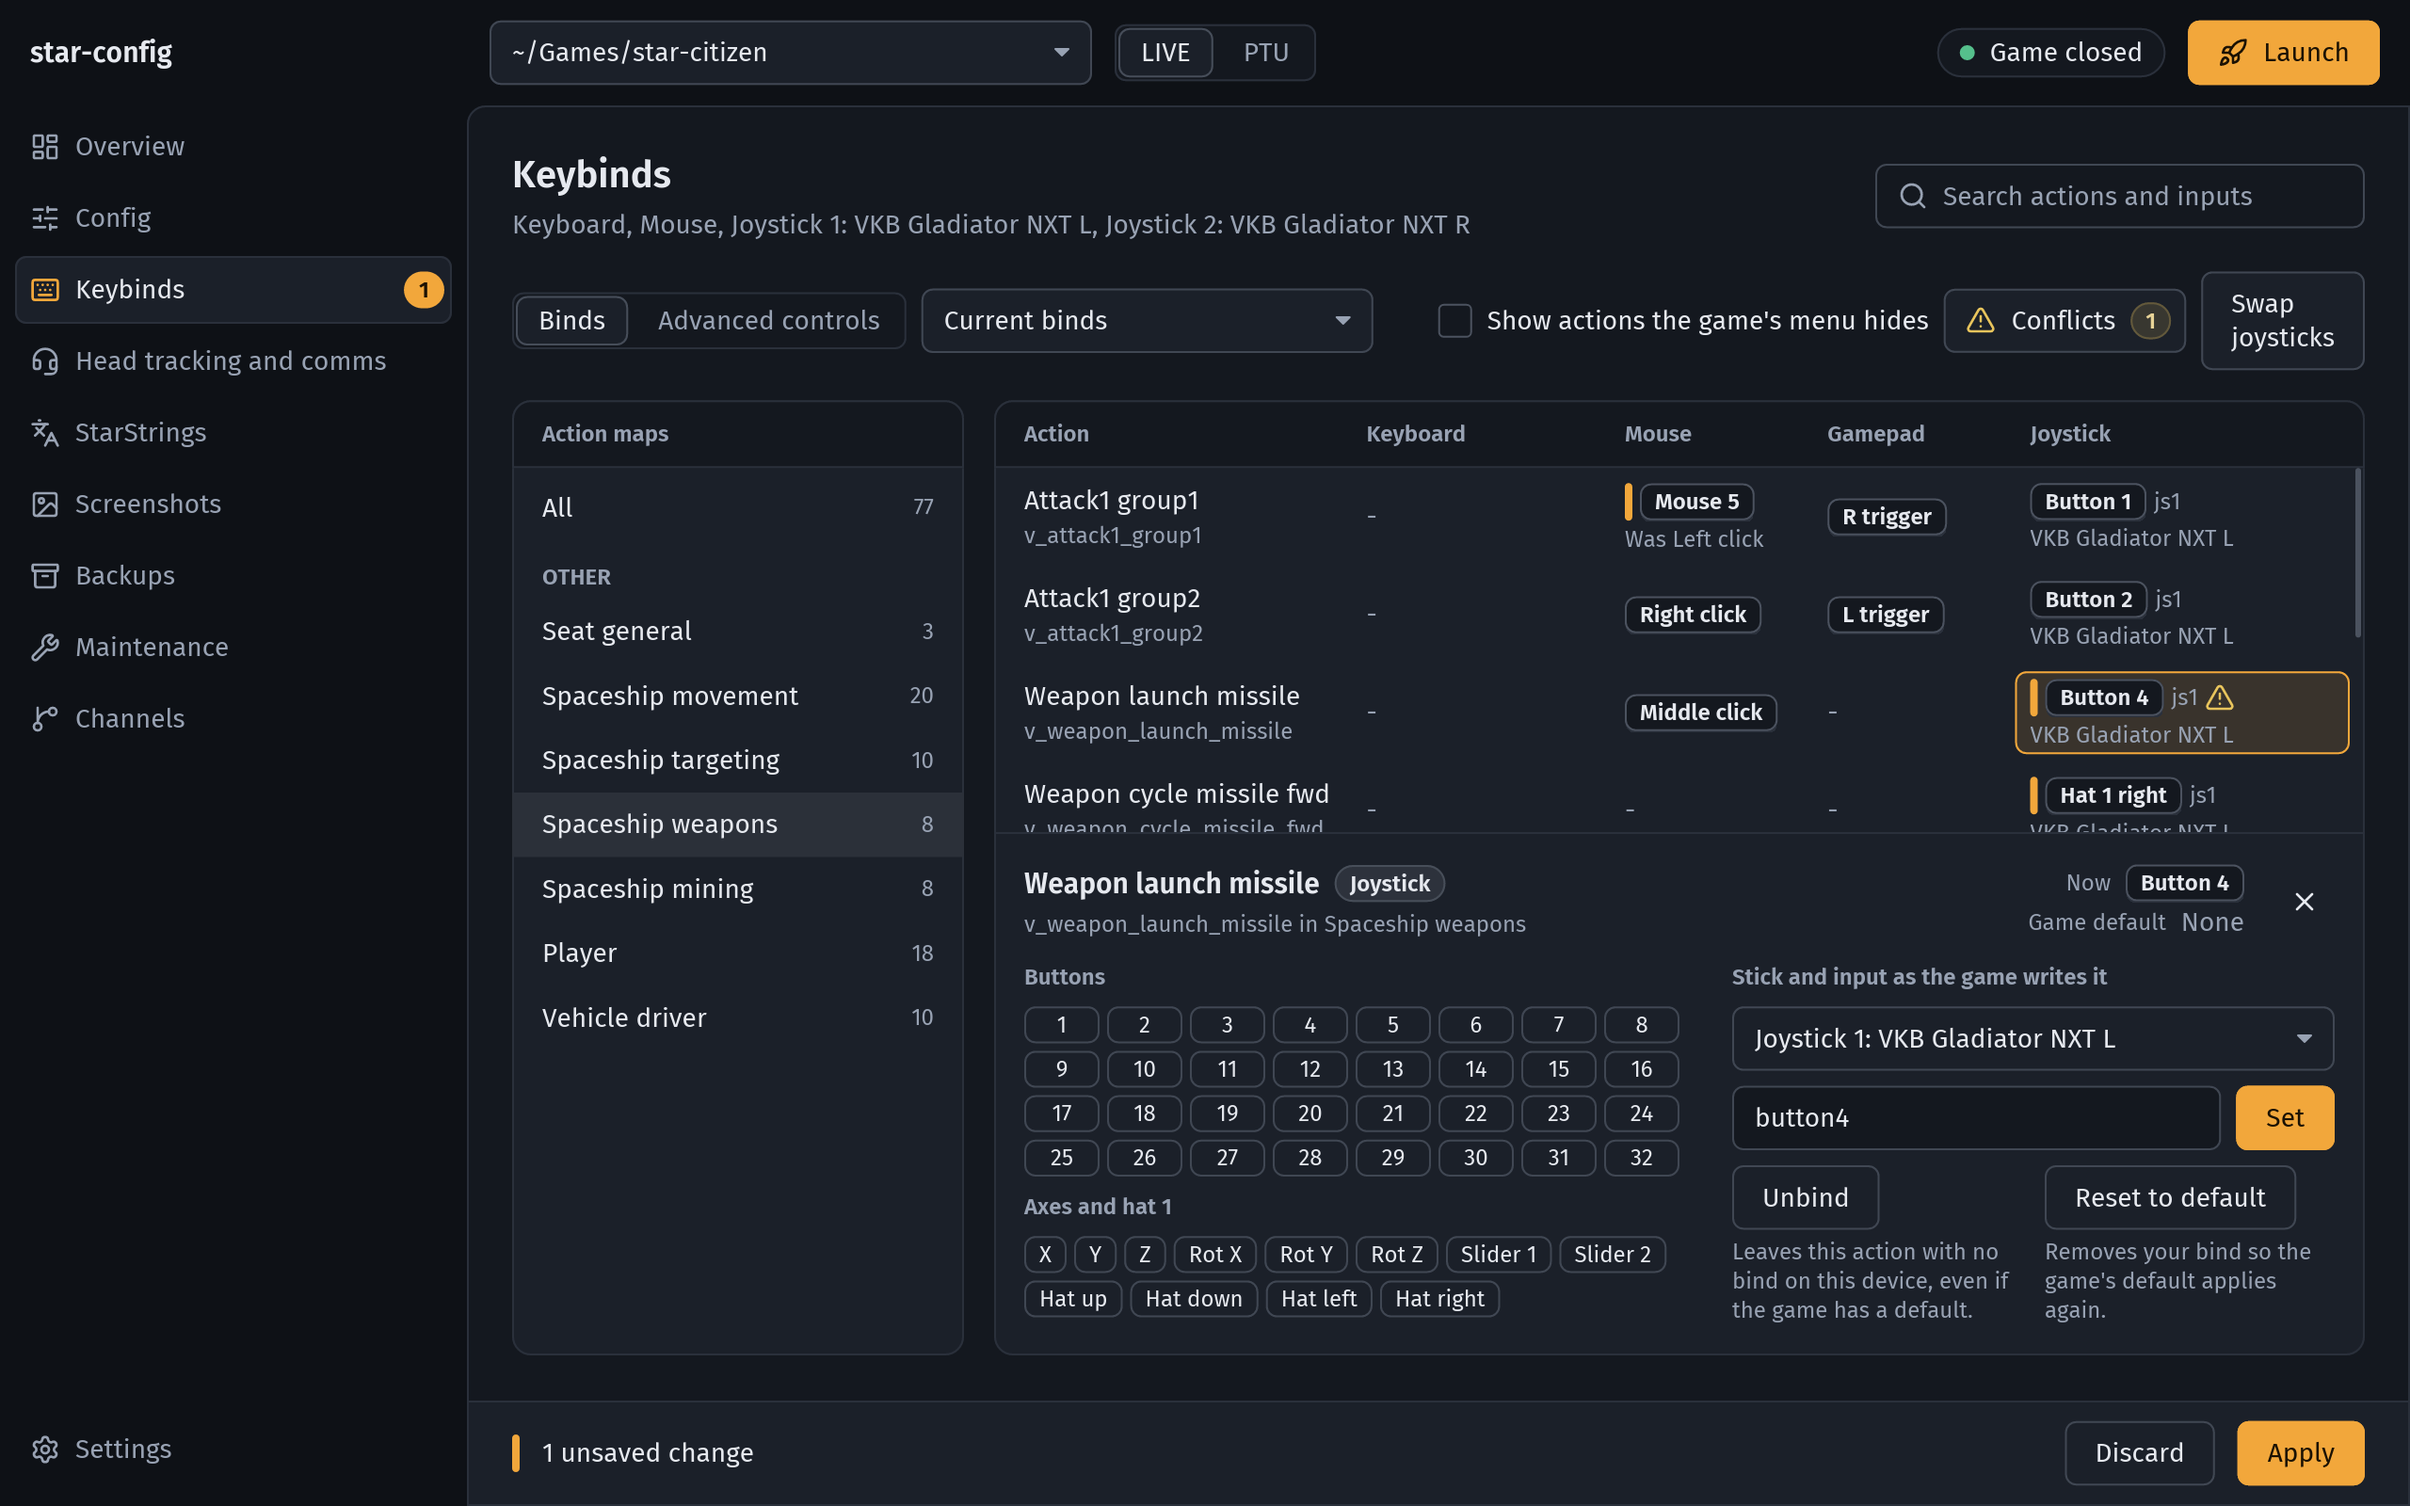
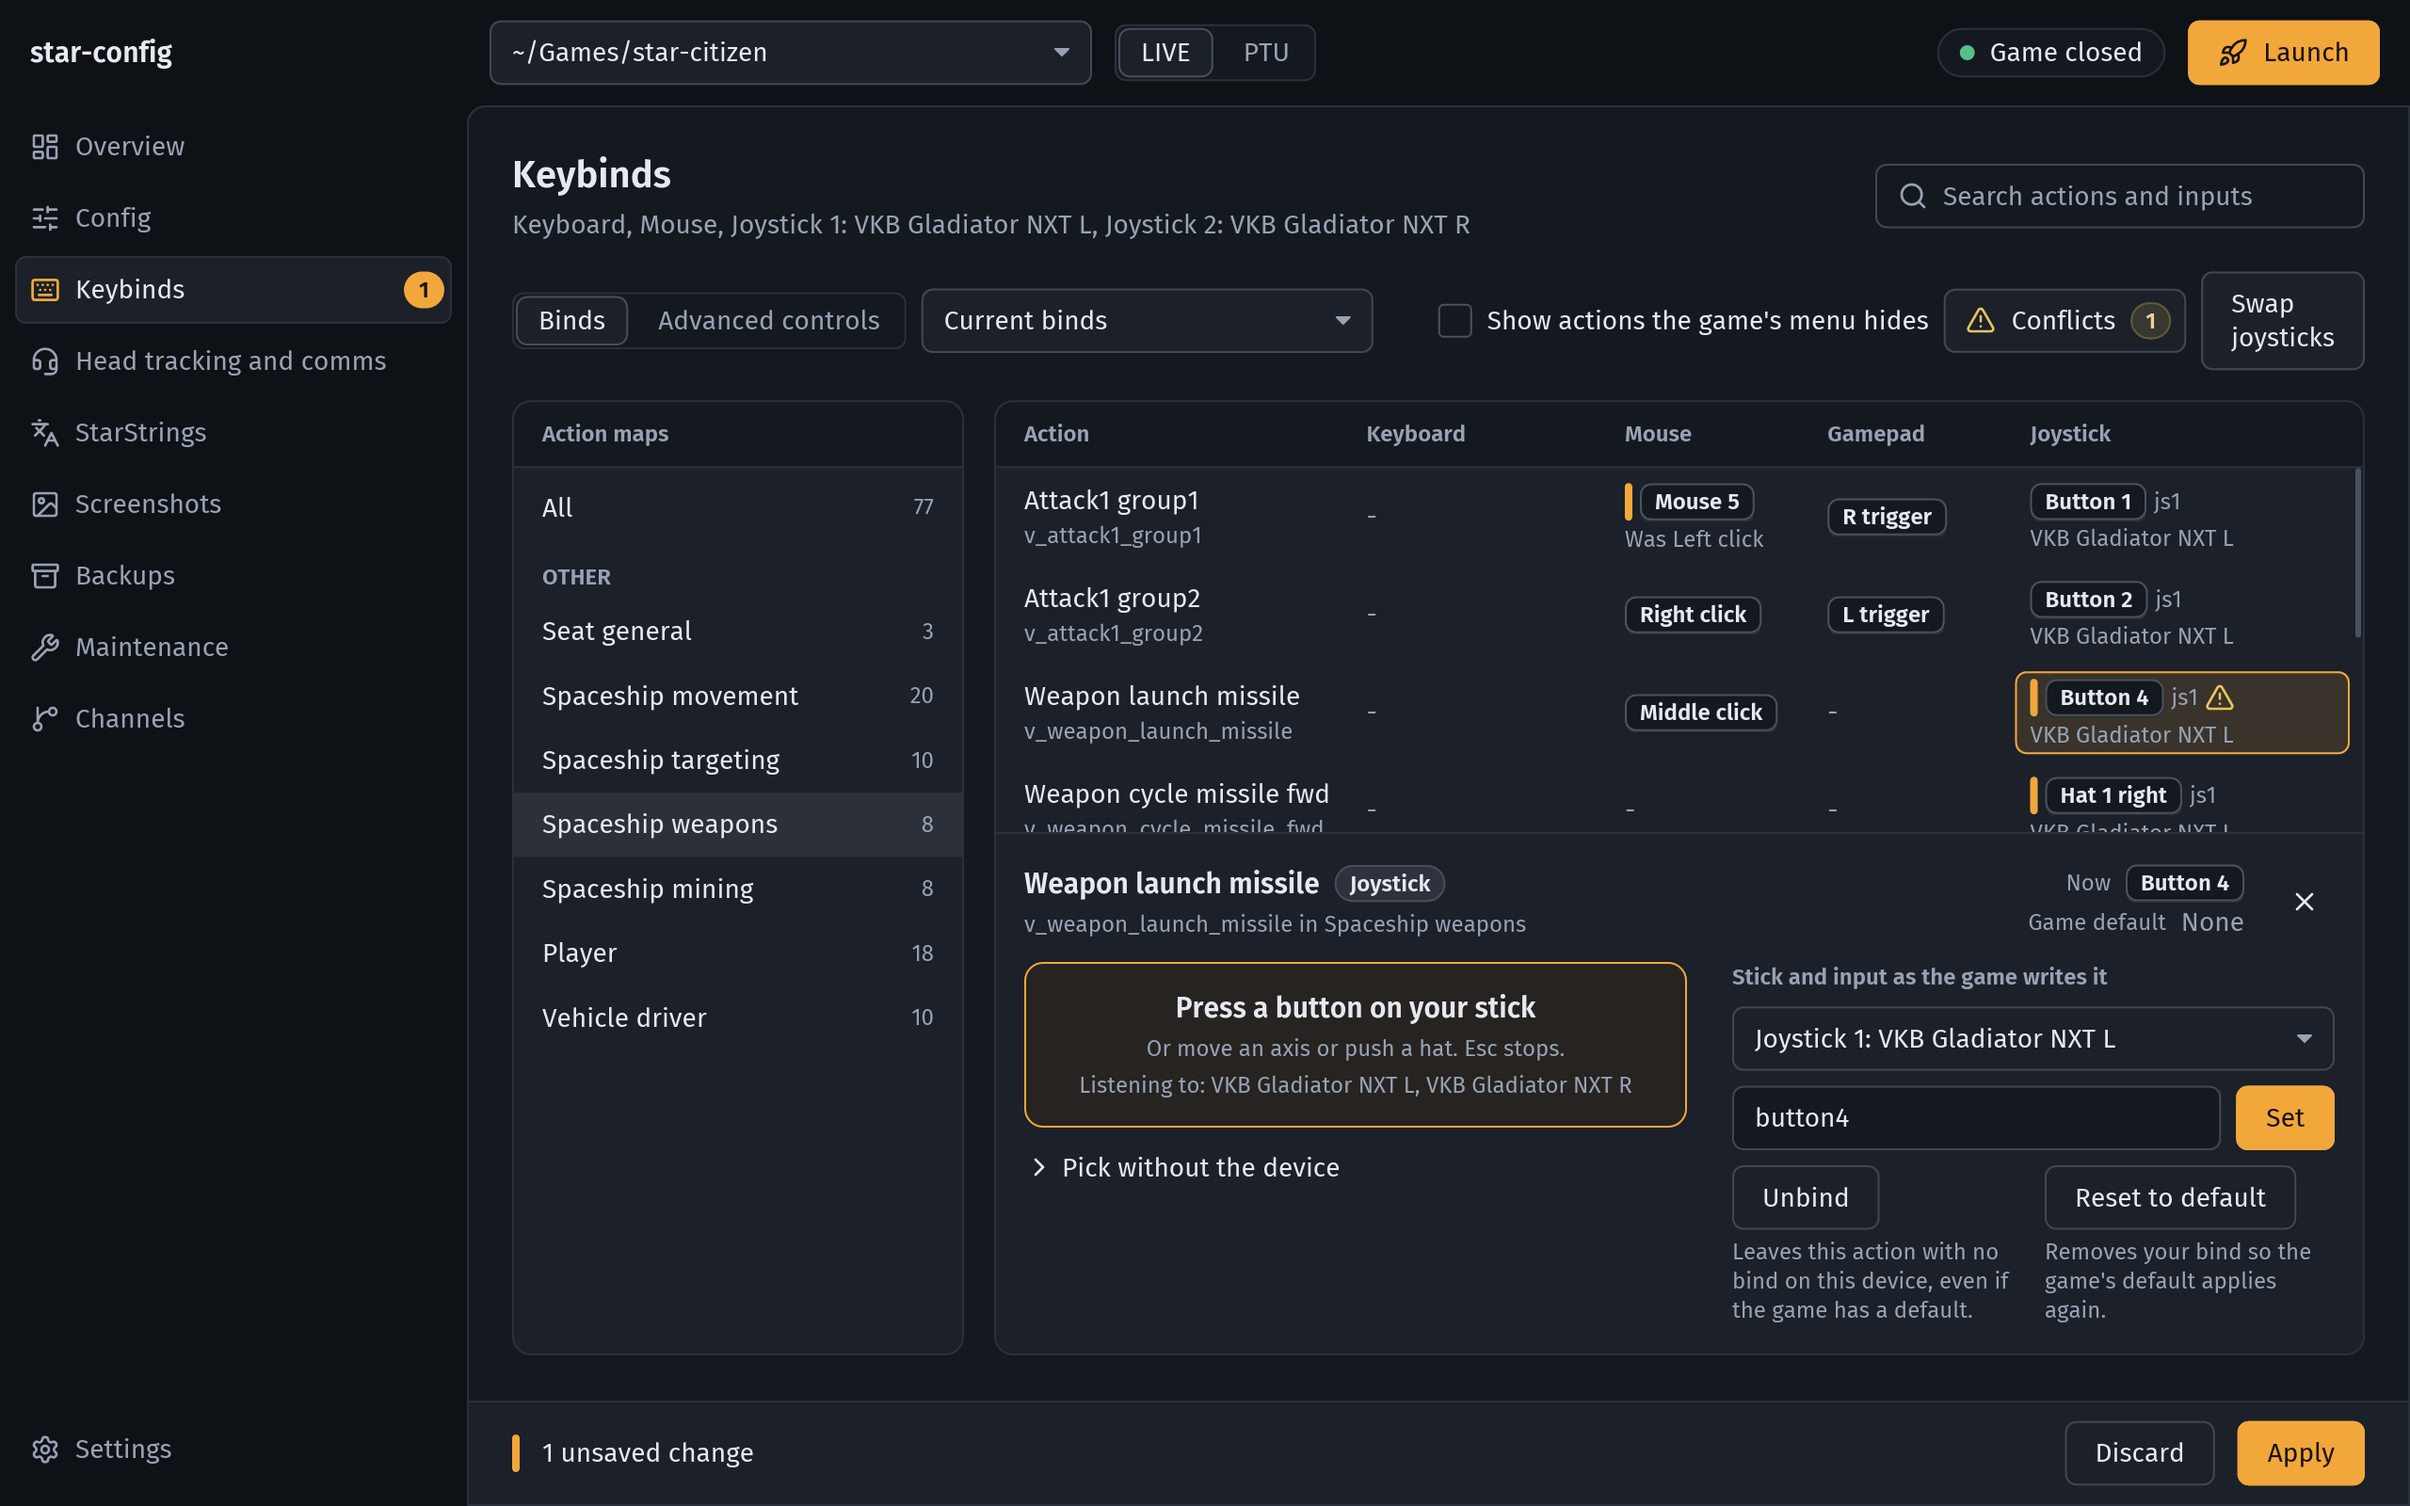
docs: show capturing from sticks and gamepads

Changed region(s): [[0.4375, 0.6562, 0.6875, 0.875], [0.4062, 0.625, 0.4688, 0.6562]]

diff --git a/crates/sc-app/tests/readme.rs b/crates/sc-app/tests/readme.rs
@@ -17,6 +17,7 @@ use sc_app::theme;
 use sc_core::actionmaps::DeviceKind;
 use sc_core::channels::{CopyPlan, PlannedFile};
 use sc_core::settings::ThemeChoice;
+use sc_input::DeviceInfo;
 use std::fs;
 use std::path::{Path, PathBuf};
 
@@ -78,6 +79,10 @@ fn stage(app: &mut App, screen: Screen, temp: &Path) {
                     Message::Keybinds(keybinds::Message::Typed("mouse5".into())),
                     Message::Keybinds(keybinds::Message::Set),
                     cell("v_weapon_launch_missile", DeviceKind::Joystick),
+                    Message::Keybinds(keybinds::Message::Devices {
+                        found: vec![vkb("L", 0x0200), vkb("R", 0x0201)],
+                        unreadable: 0,
+                    }),
                 ],
             );
         }
@@ -112,6 +117,14 @@ fn stage(app: &mut App, screen: Screen, temp: &Path) {
         }
         Screen::Channels => show_plan(app),
         _ => {}
+    }
+}
+
+fn vkb(side: &str, product: u16) -> DeviceInfo {
+    DeviceInfo {
+        vendor: 0x231D,
+        product,
+        name: format!("VKB Gladiator NXT {side}"),
     }
 }
 

diff --git a/README.md b/README.md
@@ -28,7 +28,7 @@ lets you pick a channel, and gives each kind of file its own screen.
 |---|---|
 | Overview | See the state of the install at a glance: StarStrings, binds, shader caches, last snapshot, what needs attention. |
 | Config | Edit `user.cfg`, and every setting in the game's own menu under the menu's names and groups. Console variables star-config knows get a proper control for their type. Lines it does not know are kept as they are and can still be edited as text. |
-| Keybinds | See every action the game has, with its in-game name and default bind beside yours, rebind by pressing the key or button, unbind, add a bind by action name, spot conflicts, swap joystick numbers, and edit exported layouts. Advanced controls covers inversion, exponents, response curves and deadzones per device. |
+| Keybinds | See every action the game has, with its in-game name and default bind beside yours, rebind by pressing the key or button on your keyboard, mouse, stick or gamepad, unbind, add a bind by action name, spot conflicts, swap joystick numbers, and edit exported layouts. Advanced controls covers inversion, exponents, response curves and deadzones per device. |
 | Head tracking and comms | Change the game's own head tracking, VoIP and FOIP settings in `attributes.xml`. star-config does no tracking itself. |
 | StarStrings | Install, update and remove [StarStrings](https://github.com/MrKraken/StarStrings), and see when a game patch means it needs reinstalling. |
 | Screenshots | Browse captures from every channel by day, favourite, rename and archive them, and copy one to the clipboard at full size or shrunk to fit a chat upload limit. |
